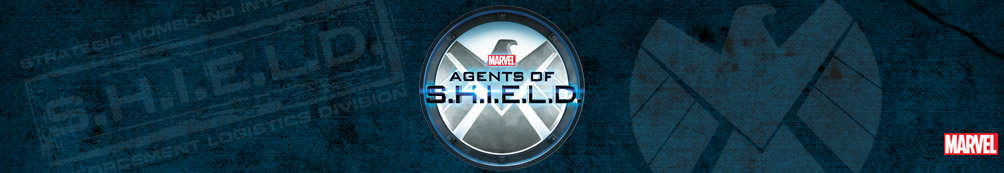
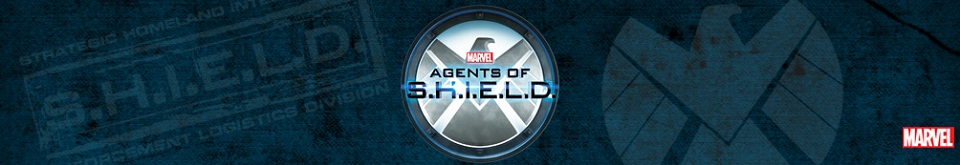
Unit 6

Changed region(s): [[0.9375, 0.7576, 1.0, 0.9091], [0.4688, 0.303, 0.5312, 0.3939], [0.4375, 0.4242, 0.5, 0.4545]]

diff --git a/unit6/index.html b/unit6/index.html
@@ -18,48 +18,63 @@
 	</header>
 	<section id="movies" class="clearfix">
 		<div>
-			<h2>movies</h2>
+			<h2>Movies</h2>
 			<article>
-				<img src="http://upload.wikimedia.org/wikipedia/en/5/5b/Katniss_Everdeen.jpg">
+				<img src="http://cdn.flaticon.com/png/256/23697.png">
 				<div>
-					<h3><a href="books.html">Books</a></h3>
-					<p>Mockingjay (Hunger Games Trilogy, Book 3: The 3rd film in the Hunger Games franchise was recently released, which brought renewed attention to the book.  It appears to have had a positive impact, since the average customer review on Amazon went from lower than 4 up to 4.3 star rating. <a href="#">...read more</a></p>
+					<h3><a href="starwars.html">Star Wars: Episode VII - The Force Awakens</a></h3>
+					<p>Star Wars: Episode 7: It is one of the most anticipated movies of 2015.  There is a lot of pressure on J.J. Abrams to make a movie worthy of the original trilogy.  It is one of the most anticipated movies of 2015.  There is a lot of pressure on J.J. Abrams to make a movie worthy of the original trilogy. <a href="#">...read more</a></p>
 				</div>
 			</article>
 			<article>
-				<img src="https://dappercadaver.files.wordpress.com/2012/09/thrones-210-white-walker.jpg">
+				<img src="images/wormhole.jpg">
 				<div>
-					<h3><a href="movies.html">Movies</a></h3>
-					<p>Interstellar: This epic movie (pictured above) was released in theaters 2 months ago, but it was the only major sci-fi movie released during the holiday season.  The film has an all star cast, including Matthew McConaughey, who is one of the most popular actors today. <a href="#">...read more</a></p>
+					<h3><a href="movies.html">Interstellar</a></h3>
+					<p>Interstellar: This epic movie (pictured above) was released in theaters 2 months ago, but it was the only major sci-fi movie released during the holiday season.  The film has an all star cast, including Matthew McConaughey, who is one of the most popular actors today. This epic movie (pictured above) was released in theaters 2 months ago, but it was the only major sci-fi movie released during the holiday season.  The film has an all star cast, including Matthew McConaughey, who is one of the most popular actors today.<a href="#">...read more</a></p>
 				</div>
 			</article>
 		</div>
 	</section>
 	<section id="tv" class="clearfix">
 		<div>
-			<h2>television</h2>
 			<article>
-				<h3><a href="tv.html">TV</a></h3>
-				<p>Person of Interest: The best episode of the season aired this week as we saw a new ability of the machine and the departure of a main character.  The character was given a great final scene, whether or not he or she returns.</p>
+				<img src="images/johnreese.jpg">
+				<div>
+					<h3><a href="tv.html">Person of Interest</a></h3>
+					<p>Person of Interest: The best episode of the season aired this week as we saw a new ability of the machine and the departure of a main character.  The character was given a great final scene, whether or not he or she returns. <a href="#">...read more</a></p>
+				</div>
 			</article>  
 			<article>
-				<h3><a href="asoiaf.html">Books</a></h3>
-				<p>A Song of Ice and Fire: This is one of the most popular series in the world.  The books are currently adapated as a tv series on HBO.</p>
+				<img src="images/shieldlogo.jpg">
+				<div>
+					<h3><a href="aos.html">Agents of S.H.I.E.L.D.</a></h3>
+					<p>Agents of S.H.I.E.L.D.: The fate of this series is currently up in the air.  It could be renewed for a third season, but it may depend on the influence of the next Avengers movie. <a href="#">...read more</a></p>
+				</div>
 			</article>
 		</div>
 	</section>
-	<section id="books" class="clearfix">
+	<section class="clearfix">
 		<div>
-			<h2>books</h2>
-			<article>
-				<h3><a href="starwars.html">Movies</a></h3>
-				<p>Star Wars: Episode 7: It is one of the most anticipated movies of 2015.  There is a lot of pressure on J.J. Abrams to make a movie worthy of the original trilogy.</p>
+			<article id="books">
+				<h2>Books</h2>
+				<img src="images/bookicon1.png">
+				<div>
+					<h3><a href="asoiaf.html">A Song of Ice and Fire</a></h3>
+					<p>A Song of Ice and Fire: This is one of the most popular series in the world.  The books are currently adapated as a tv series on HBO.  <a href="#">...read more</a></p>
+				</div>
 			</article>
-			<article>
-				<h3><a href="aos.html">TV</a></h3>
-				<p>Agents of Shield: The fate of this series is currently up in the air.  It could be renewed for a third season, but it may depend on the influence of the next Avengers movie.</p>
+			<article id="books">
+				<h2>Books</h2>
+				<img src="images/katniss.jpg">
+				<div>
+					<h3><a href="books.html">Mockingjay</a></h3>
+					<p>Mockingjay (Hunger Games Trilogy, Book 3: The 3rd film in the Hunger Games franchise was recently released, which brought renewed attention to the book.  It appears to have had a positive impact, since the average customer review on Amazon went from lower than 4 up to 4.3 star rating. <a href="#">...read more</a></p>
+				</div>
 			</article>  
 		</div>
 	</section> 
+	<footer>
+		<p>Copyright 2015.</p>
+	</footer>
 </body>
 </html>

diff --git a/unit6/css/style.css b/unit6/css/style.css
@@ -15,7 +15,7 @@ nav a {
   padding: 25px;
 }
 header img {
-	width:100%;
+	max-width: 1200px
 }
 article {
   width: 50%;
@@ -39,17 +39,18 @@ h1 {
 	font-size: 40px;
 }
 section>div {
-	max-width: 1200px;
-	margin: 0 auto;
+	max-width: 1000px;
+	margin: 5px auto;
 }
 #movies {
-	background:url(http://cdn.flaticon.com/png/256/23697.png) no-repeat #9c27b0;
+	background-color:#2196F3;
 }
 #tv {
-	background-color:#4CAF50;
+	color:#4CAF50;
+
 }
 #books {
-	background-color:#FF9800;
+	background-color:#9E9E9E;
 }
 .headline {
 	width: 150px;
